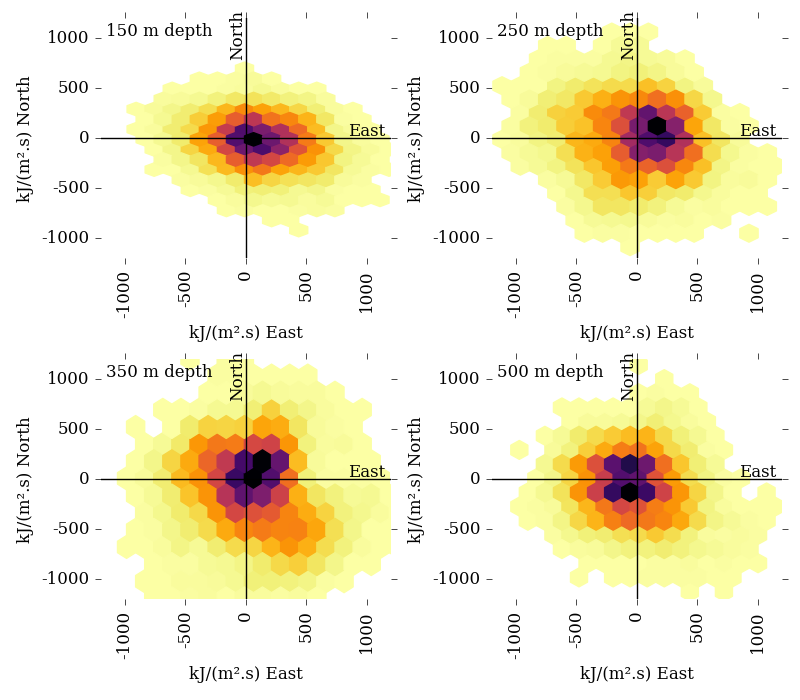
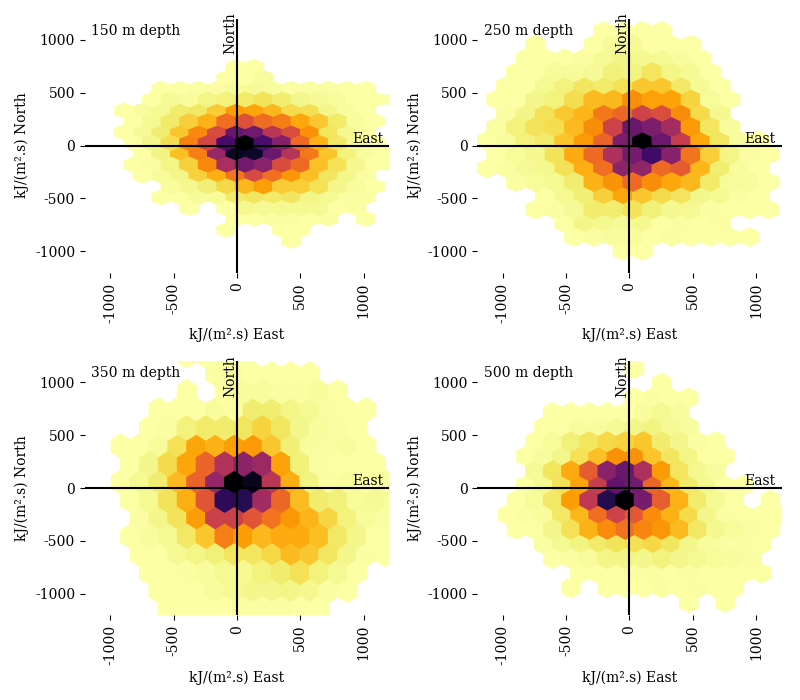
scale back sampling again and update images

diff --git a/static/index.html b/static/index.html
@@ -253,7 +253,7 @@
         el.innerHTML = outStr;
       }
 
-      itm.json("/data/mc1.json?freqMinutes=720", function(error, _data) {
+      itm.json("/data/mc1.json?freqMinutes=1440", function(error, _data) {
         if (error) throw error;
         var data = itm.transpose(_data);
         data.forEach(function(d) {
@@ -288,7 +288,7 @@
         itm.tightenScaY(axPres);
       });
 
-      itm.json("/data/mc2.json?freqMinutes=720", function(error, _data) {
+      itm.json("/data/mc2.json?freqMinutes=1440", function(error, _data) {
         if (error) throw error;
         var data = itm.transpose(_data);
         data.forEach(function(d) {
@@ -317,7 +317,7 @@
         itm.tightenScaY(axPres);
       });
 
-      itm.json("/data/mc3.json?freqMinutes=720", function(error, _data) {
+      itm.json("/data/mc3.json?freqMinutes=1440", function(error, _data) {
         if (error) throw error;
         var data = itm.transpose(_data);
         data.forEach(function(d) {
@@ -346,7 +346,7 @@
         itm.tightenScaY(axPres);
       });
 
-      itm.json("/data/mc4.json?freqMinutes=720", function(error, _data) {
+      itm.json("/data/mc4.json?freqMinutes=1440", function(error, _data) {
         if (error) throw error;
         var data = itm.transpose(_data);
         data.forEach(function(d) {
@@ -377,7 +377,7 @@
 
       var axCurrent = itm.createTimeSeriesAxes(geom, "#axCurrent", "Current velocity (cm/s)");
 
-      itm.json("/data/aq1.json?freqMinutes=720&windowMinutes=5760", function(error, _data) {
+      itm.json("/data/aq1.json?freqMinutes=1440&windowMinutes=5760", function(error, _data) {
           if (error) throw error;
           var data = itm.transpose(_data);
           data.forEach(function(d) {
@@ -393,7 +393,7 @@
           itm.rescaleAxes(axCurrent);
           itm.tightenVecY(axCurrent);
       });
-      itm.json("/data/aq2.json?freqMinutes=720&windowMinutes=5760", function(error, _data) {
+      itm.json("/data/aq2.json?freqMinutes=1440&windowMinutes=5760", function(error, _data) {
           if (error) throw error;
           var data = itm.transpose(_data);
           data.forEach(function(d) {
@@ -409,7 +409,7 @@
           itm.rescaleAxes(axCurrent);
           itm.tightenVecY(axCurrent);
       });
-      itm.json("/data/aq3.json?freqMinutes=720&windowMinutes=5760", function(error, _data) {
+      itm.json("/data/aq3.json?freqMinutes=1440&windowMinutes=5760", function(error, _data) {
           if (error) throw error;
           var data = itm.transpose(_data);
           data.forEach(function(d) {
@@ -425,7 +425,7 @@
           itm.rescaleAxes(axCurrent);
           itm.tightenVecY(axCurrent);
       });
-      itm.json("/data/aq4.json?freqMinutes=720&windowMinutes=5760", function(error, _data) {
+      itm.json("/data/aq4.json?freqMinutes=1440&windowMinutes=5760", function(error, _data) {
           if (error) throw error;
           var data = itm.transpose(_data);
           data.forEach(function(d) {
